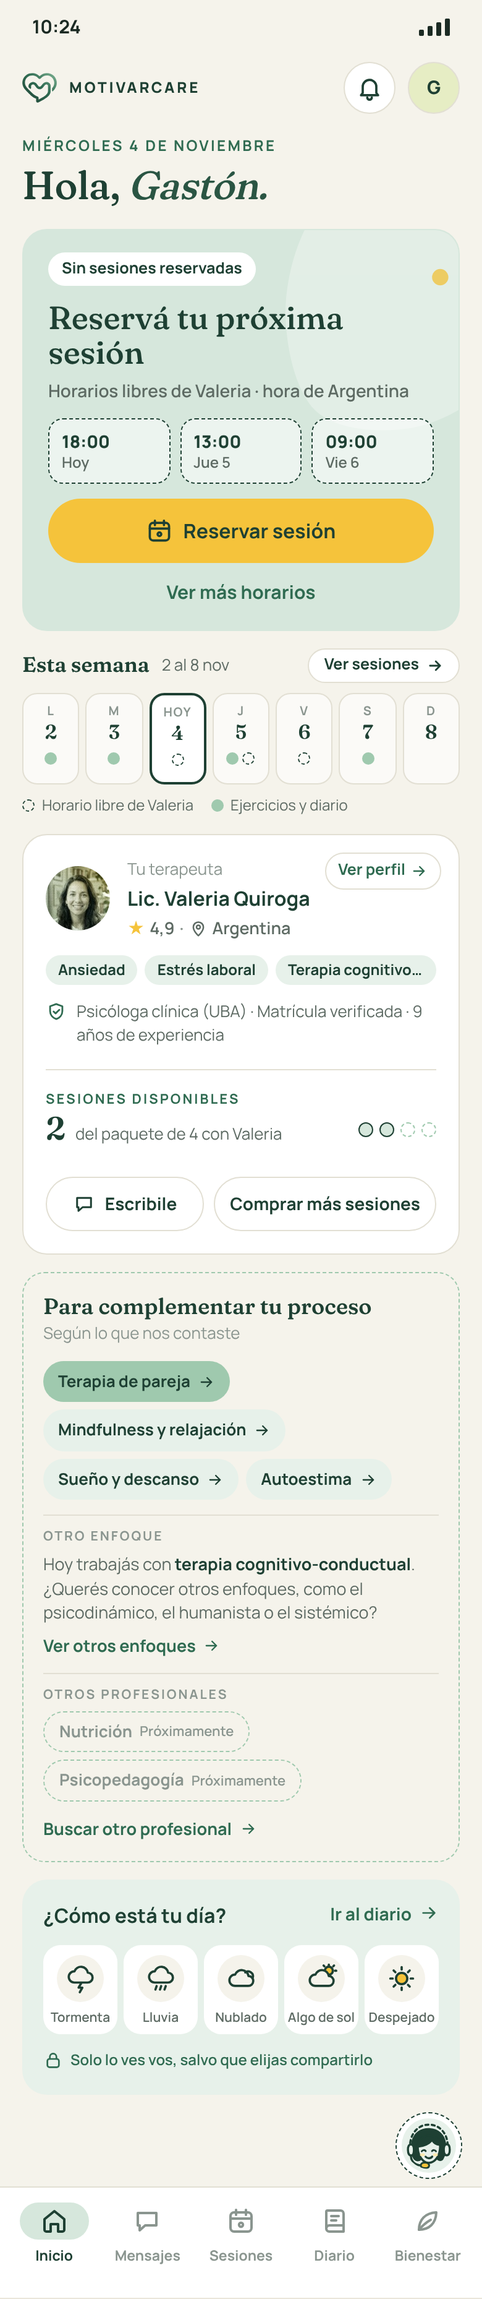
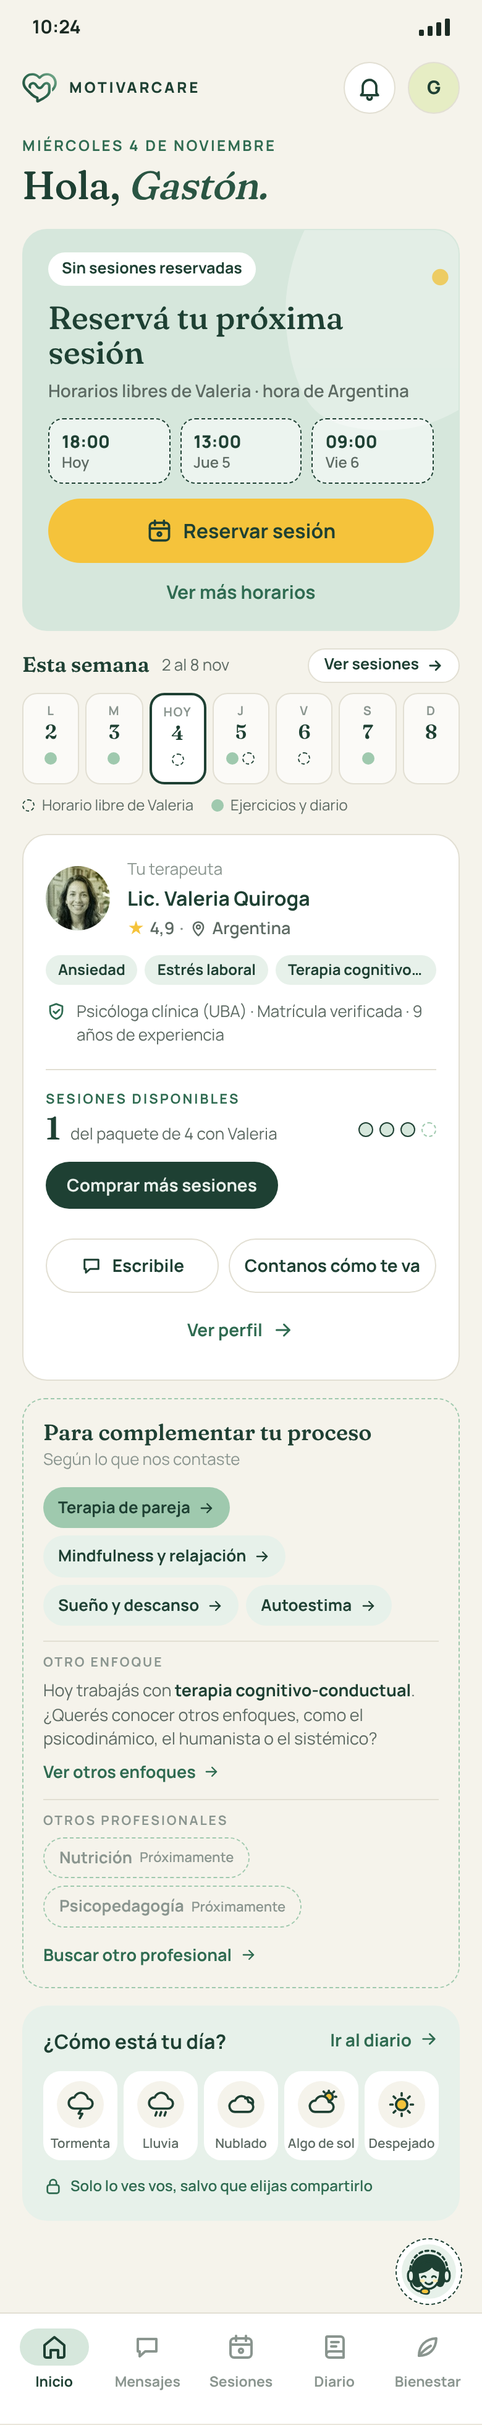
App del usuario: Ficha del profesional con comprar, contar y ver perfil
"Comprar más sesiones" pasa al apartado de sesiones disponibles y solo
aparece desde la mitad del paquete (en verde bosque si queda 1 o
ninguna). "Ver perfil" vuelve abajo y se suma "Contanos cómo te va",
para pedir feedback y calificar al profesional. El mockup 2 pasa a 1
sesión disponible para mostrar el estado destacado.

Claude-Session: https://claude.ai/code/session_01WU1DRuLLvKJwMVuiPWLics

diff --git a/web/public/app-usuario/ronda-2.html b/web/public/app-usuario/ronda-2.html
@@ -823,6 +823,14 @@ ul.lista-simple { padding: 0; }
 .rubros { display: flex; flex-wrap: wrap; gap: 6px; }
 .rubro-pill { display: inline-flex; align-items: center; gap: 6px; padding: 6px 12px; border-radius: 99px; border: 1.5px dashed var(--salvia-fuerte); font-size: 13px; font-weight: 700; color: var(--tinta-tenue); }
 .rubro-pill small { font-size: 11px; font-weight: 600; color: var(--tinta-tenue); }
+
+/* Ficha del profesional: comprar en el apartado de sesiones; tres acciones abajo */
+.disponibles { position: relative; }
+.disponibles .comprar-mas { align-self: flex-start; height: 38px; padding: 0 16px; font-size: 14px; margin-top: 8px; }
+.pro2 .botones { flex-wrap: wrap; gap: 8px 8px; }
+.pro2 .botones .boton.texto { padding: 0 6px; }
+.pro2-cab { padding-right: 0; }
+.ver-abajo { align-self: flex-start; padding: 0 !important; height: 32px; }
 </style>
 </head>
 <body>
@@ -924,7 +932,7 @@ ul.lista-simple { padding: 0; }
         </div>
         <div class="columna-der">
         <article class="tarjeta pro2">
-          <div class="pro2-cab"><a class="ver-perfil">Ver perfil<svg class="ico"><use href="#i-flecha"/></svg></a>
+          <div class="pro2-cab">
             <img class="avatar" src="../landing/img/profesionales/valeria-quiroga.jpg" alt="" width="64" height="64">
             <div>
               <span class="tenue">Tu terapeuta</span>
@@ -935,8 +943,8 @@ ul.lista-simple { padding: 0; }
           <div class="pills"><span class="chip">Ansiedad</span><span class="chip">Estrés laboral</span><span class="chip">Terapia cognitivo-conductual</span><span class="chip">Autoestima</span><span class="chip">Vínculos</span></div>
           <p class="credenciales"><svg class="ico"><use href="#i-escudo"/></svg>Psicóloga clínica (UBA) · Matrícula verificada · 9 años de experiencia</p>
           <div class="nota"><i>i</i><span>Te escribió ayer: <b style="color:var(--tinta)">“Te dejo el ejercicio que vimos para esta semana.”</b></span></div>
-          <div class="disponibles"><span class="et">Sesiones disponibles</span><div class="fila-disp"><b>2</b><span>del paquete de 4 con Valeria</span><span class="puntos4"><i class="u"></i><i class="u"></i><i></i><i></i></span></div></div>
-          <div class="botones"><a class="boton contorno"><svg class="ico chico"><use href="#i-chat"/></svg>Escribile</a><a class="boton contorno">Comprar más sesiones</a></div>
+          <div class="disponibles"><span class="et">Sesiones disponibles</span><div class="fila-disp"><b>2</b><span>del paquete de 4 con Valeria</span><span class="puntos4"><i class="u"></i><i class="u"></i><i></i><i></i></span></div><a class="boton contorno comprar-mas">Comprar más sesiones</a></div>
+          <div class="botones"><a class="boton contorno"><svg class="ico chico"><use href="#i-chat"/></svg>Escribile</a><a class="boton contorno">Contanos cómo te va</a><a class="boton texto">Ver perfil<svg class="ico chico"><use href="#i-flecha"/></svg></a></div>
         </article>
           <div class="complementar">
             <div class="comp-cab"><b>Para complementar tu proceso</b><span class="tenue">Según lo que nos contaste</span></div>
@@ -992,7 +1000,7 @@ ul.lista-simple { padding: 0; }
     </article>
     <div class="cal-tel"><div class="eq-cal-cab"><h2 class="eq-titulo">Esta semana</h2><span class="rango">2 al 8 nov</span><a class="eq-expandir" href="#sesiones">Ver sesiones<svg class="ico" style="width:14px;height:14px"><use href="#i-flecha"/></svg></a></div><div class="sem-tel"><div class="dt"><span class="d">L</span><span class="n">2</span><span class="m p"></span></div><div class="dt"><span class="d">M</span><span class="n">3</span><span class="m p"></span></div><div class="dt hoy"><span class="d">Hoy</span><span class="n">4</span><img class="m" src="../landing/img/profesionales/valeria-quiroga.jpg" alt=""></div><div class="dt"><span class="d">J</span><span class="n">5</span><span class="m p"></span></div><div class="dt"><span class="d">V</span><span class="n">6</span></div><div class="dt"><span class="d">S</span><span class="n">7</span><span class="m p"></span></div><div class="dt"><span class="d">D</span><span class="n">8</span></div></div><div class="ley-tel"><span><img src="../landing/img/profesionales/valeria-quiroga.jpg" alt="">Sesión con Valeria</span><span><i class="p"></i>Ejercicios y diario</span></div></div>
     <article class="tarjeta pro2 tel-pro">
-      <div class="pro2-cab"><a class="ver-perfil">Ver perfil<svg class="ico"><use href="#i-flecha"/></svg></a>
+      <div class="pro2-cab">
         <img class="avatar" src="../landing/img/profesionales/valeria-quiroga.jpg" alt="" width="52" height="52">
         <div>
           <span class="tenue">Tu terapeuta</span>
@@ -1003,8 +1011,8 @@ ul.lista-simple { padding: 0; }
       <div class="pills"><span class="chip">Ansiedad</span><span class="chip">Estrés laboral</span><span class="chip">Terapia cognitivo-conductual</span><span class="chip">Autoestima</span><span class="chip">Vínculos</span></div>
       <p class="credenciales"><svg class="ico"><use href="#i-escudo"/></svg>Psicóloga clínica (UBA) · Matrícula verificada · 9 años de experiencia</p>
           <div class="nota"><i>i</i><span>Te escribió ayer: <b style="color:var(--tinta)">“Te dejo el ejercicio que vimos para esta semana.”</b></span></div>
-      <div class="disponibles"><span class="et">Sesiones disponibles</span><div class="fila-disp"><b>2</b><span>del paquete de 4 con Valeria</span><span class="puntos4"><i class="u"></i><i class="u"></i><i></i><i></i></span></div></div>
-      <div class="botones"><a class="boton contorno"><svg class="ico chico"><use href="#i-chat"/></svg>Escribile</a><a class="boton contorno">Comprar más sesiones</a></div>
+      <div class="disponibles"><span class="et">Sesiones disponibles</span><div class="fila-disp"><b>2</b><span>del paquete de 4 con Valeria</span><span class="puntos4"><i class="u"></i><i class="u"></i><i></i><i></i></span></div><a class="boton contorno comprar-mas">Comprar más sesiones</a></div>
+      <div class="botones"><a class="boton contorno"><svg class="ico chico"><use href="#i-chat"/></svg>Escribile</a><a class="boton contorno">Contanos cómo te va</a><a class="boton texto">Ver perfil<svg class="ico chico"><use href="#i-flecha"/></svg></a></div>
     </article>
     <div class="complementar tel-comp">
             <div class="comp-cab"><b>Para complementar tu proceso</b><span class="tenue">Según lo que nos contaste</span></div>
@@ -1071,7 +1079,7 @@ ul.lista-simple { padding: 0; }
       <div class="saludo">
         <span class="t-fecha">Miércoles 4 de noviembre</span>
         <h1 class="t1">Hola, <em>Gastón.</em></h1>
-        <p class="bajada">Tenés 2 sesiones disponibles con Valeria. Reservá la próxima cuando quieras.</p>
+        <p class="bajada">Te queda 1 sesión disponible con Valeria. Reservá la próxima cuando quieras.</p>
       </div>
       <div class="grilla-inicio">
         <div class="columna-izq">
@@ -1088,7 +1096,7 @@ ul.lista-simple { padding: 0; }
           </div>
           <div class="acciones">
             <a class="boton primario grande"><svg class="ico"><use href="#i-sesiones"/></svg>Reservar sesión</a>
-            <span class="peq" style="color:var(--bosque)">Usás 1 de tus 2 sesiones disponibles con Valeria</span>
+            <span class="peq" style="color:var(--bosque)">Usás tu última sesión disponible con Valeria</span>
           </div>
         </article>
           <div class="eq-cal"><div class="eq-cal-cab"><h2 class="eq-titulo"><span class="solo-semana">Esta semana</span><span class="solo-mes">Noviembre 2026</span></h2><span class="rango solo-semana">2 al 8 de noviembre</span><span class="flechas"><span>‹</span><span>›</span></span><a class="eq-expandir" href="#sesiones" title="Lleva a la página de Sesiones">Ver sesiones<svg class="ico" style="width:14px;height:14px"><use href="#i-flecha"/></svg></a></div><div class="eq-semana"><div class="eq-dia"><span class="d">Lun</span><span class="n">2</span><span class="eq-ev otro">Respiración ✓</span></div><div class="eq-dia"><span class="d">Mar</span><span class="n">3</span><span class="eq-ev otro">Diario ✓</span></div><div class="eq-dia hoy"><span class="d">Hoy</span><span class="n">4</span><span class="eq-ev libre">Libre 18:00</span></div><div class="eq-dia"><span class="d">Jue</span><span class="n">5</span><span class="eq-ev otro">Ejercicio</span><span class="eq-ev libre">2 libres</span></div><div class="eq-dia"><span class="d">Vie</span><span class="n">6</span><span class="eq-ev libre">Libre 09:00</span></div><div class="eq-dia"><span class="d">Sáb</span><span class="n">7</span><span class="eq-ev otro">Respiración</span></div><div class="eq-dia"><span class="d">Dom</span><span class="n">8</span></div></div></div>
@@ -1110,7 +1118,7 @@ ul.lista-simple { padding: 0; }
         </div>
         <div class="columna-der">
         <article class="tarjeta pro2">
-          <div class="pro2-cab"><a class="ver-perfil">Ver perfil<svg class="ico"><use href="#i-flecha"/></svg></a>
+          <div class="pro2-cab">
             <img class="avatar" src="../landing/img/profesionales/valeria-quiroga.jpg" alt="" width="64" height="64">
             <div>
               <span class="tenue">Tu terapeuta</span>
@@ -1120,8 +1128,8 @@ ul.lista-simple { padding: 0; }
           </div>
           <div class="pills"><span class="chip">Ansiedad</span><span class="chip">Estrés laboral</span><span class="chip">Terapia cognitivo-conductual</span><span class="chip">Autoestima</span><span class="chip">Vínculos</span></div>
           <p class="credenciales"><svg class="ico"><use href="#i-escudo"/></svg>Psicóloga clínica (UBA) · Matrícula verificada · 9 años de experiencia</p>
-          <div class="disponibles"><span class="et">Sesiones disponibles</span><div class="fila-disp"><b>2</b><span>del paquete de 4 con Valeria</span><span class="puntos4"><i class="u"></i><i class="u"></i><i></i><i></i></span></div></div>
-          <div class="botones"><a class="boton contorno"><svg class="ico chico"><use href="#i-chat"/></svg>Escribile</a><a class="boton contorno">Comprar más sesiones</a></div>
+          <div class="disponibles"><span class="et">Sesiones disponibles</span><div class="fila-disp"><b>1</b><span>del paquete de 4 con Valeria</span><span class="puntos4"><i class="u"></i><i class="u"></i><i class="u"></i><i></i></span></div><a class="boton bosque comprar-mas">Comprar más sesiones</a></div>
+          <div class="botones"><a class="boton contorno"><svg class="ico chico"><use href="#i-chat"/></svg>Escribile</a><a class="boton contorno">Contanos cómo te va</a><a class="boton texto">Ver perfil<svg class="ico chico"><use href="#i-flecha"/></svg></a></div>
         </article>
           <div class="complementar">
             <div class="comp-cab"><b>Para complementar tu proceso</b><span class="tenue">Según lo que nos contaste</span></div>
@@ -1182,7 +1190,7 @@ ul.lista-simple { padding: 0; }
     </article>
     <div class="cal-tel"><div class="eq-cal-cab"><h2 class="eq-titulo">Esta semana</h2><span class="rango">2 al 8 nov</span><a class="eq-expandir" href="#sesiones">Ver sesiones<svg class="ico" style="width:14px;height:14px"><use href="#i-flecha"/></svg></a></div><div class="sem-tel"><div class="dt"><span class="d">L</span><span class="n">2</span><span class="marcas"><span class="m p"></span></span></div><div class="dt"><span class="d">M</span><span class="n">3</span><span class="marcas"><span class="m p"></span></span></div><div class="dt hoy"><span class="d">Hoy</span><span class="n">4</span><span class="marcas"><span class="m l"></span></span></div><div class="dt"><span class="d">J</span><span class="n">5</span><span class="marcas"><span class="m p"></span><span class="m l"></span></span></div><div class="dt"><span class="d">V</span><span class="n">6</span><span class="marcas"><span class="m l"></span></span></div><div class="dt"><span class="d">S</span><span class="n">7</span><span class="marcas"><span class="m p"></span></span></div><div class="dt"><span class="d">D</span><span class="n">8</span><span class="marcas"></span></div></div><div class="ley-tel"><span><i class="l"></i>Horario libre de Valeria</span><span><i class="p"></i>Ejercicios y diario</span></div></div>
     <article class="tarjeta pro2 tel-pro">
-      <div class="pro2-cab"><a class="ver-perfil">Ver perfil<svg class="ico"><use href="#i-flecha"/></svg></a>
+      <div class="pro2-cab">
         <img class="avatar" src="../landing/img/profesionales/valeria-quiroga.jpg" alt="" width="52" height="52">
         <div>
           <span class="tenue">Tu terapeuta</span>
@@ -1192,8 +1200,8 @@ ul.lista-simple { padding: 0; }
       </div>
       <div class="pills"><span class="chip">Ansiedad</span><span class="chip">Estrés laboral</span><span class="chip">Terapia cognitivo-conductual</span><span class="chip">Autoestima</span><span class="chip">Vínculos</span></div>
       <p class="credenciales"><svg class="ico"><use href="#i-escudo"/></svg>Psicóloga clínica (UBA) · Matrícula verificada · 9 años de experiencia</p>
-      <div class="disponibles"><span class="et">Sesiones disponibles</span><div class="fila-disp"><b>2</b><span>del paquete de 4 con Valeria</span><span class="puntos4"><i class="u"></i><i class="u"></i><i></i><i></i></span></div></div>
-      <div class="botones"><a class="boton contorno"><svg class="ico chico"><use href="#i-chat"/></svg>Escribile</a><a class="boton contorno">Comprar más sesiones</a></div>
+      <div class="disponibles"><span class="et">Sesiones disponibles</span><div class="fila-disp"><b>1</b><span>del paquete de 4 con Valeria</span><span class="puntos4"><i class="u"></i><i class="u"></i><i class="u"></i><i></i></span></div><a class="boton bosque comprar-mas">Comprar más sesiones</a></div>
+      <div class="botones"><a class="boton contorno"><svg class="ico chico"><use href="#i-chat"/></svg>Escribile</a><a class="boton contorno">Contanos cómo te va</a><a class="boton texto">Ver perfil<svg class="ico chico"><use href="#i-flecha"/></svg></a></div>
     </article>
     <div class="complementar tel-comp">
             <div class="comp-cab"><b>Para complementar tu proceso</b><span class="tenue">Según lo que nos contaste</span></div>
@@ -1478,7 +1486,7 @@ ul.lista-simple { padding: 0; }
               <span class="tab-pro"><img src="../landing/img/profesionales/tomas-benitez.jpg" alt=""><span>Tomás</span><span class="aviso msj" title="1 mensaje sin leer"><svg class="ico"><use href="#i-chat"/></svg>1</span></span>
             </div>
           </div>
-          <div class="pro2-cab"><a class="ver-perfil">Ver perfil<svg class="ico"><use href="#i-flecha"/></svg></a>
+          <div class="pro2-cab">
             <img class="avatar" src="../landing/img/profesionales/valeria-quiroga.jpg" alt="" width="64" height="64">
             <div>
               <span class="tenue">Tu terapeuta</span>
@@ -1489,8 +1497,8 @@ ul.lista-simple { padding: 0; }
           <div class="pills"><span class="chip">Ansiedad</span><span class="chip">Estrés laboral</span><span class="chip">Terapia cognitivo-conductual</span><span class="chip">Autoestima</span><span class="chip">Vínculos</span></div>
           <p class="credenciales"><svg class="ico"><use href="#i-escudo"/></svg>Psicóloga clínica (UBA) · Matrícula verificada · 9 años de experiencia</p>
           <div class="nota"><i>i</i><span>Te escribió ayer: <b style="color:var(--tinta)">“Te dejo el ejercicio que vimos para esta semana.”</b></span></div>
-          <div class="disponibles"><span class="et">Sesiones disponibles</span><div class="fila-disp"><b>2</b><span>del paquete de 4 con Valeria</span><span class="puntos4"><i class="u"></i><i class="u"></i><i></i><i></i></span></div></div>
-          <div class="botones"><a class="boton contorno"><svg class="ico chico"><use href="#i-chat"/></svg>Escribile</a><a class="boton contorno">Comprar más sesiones</a></div>
+          <div class="disponibles"><span class="et">Sesiones disponibles</span><div class="fila-disp"><b>2</b><span>del paquete de 4 con Valeria</span><span class="puntos4"><i class="u"></i><i class="u"></i><i></i><i></i></span></div><a class="boton contorno comprar-mas">Comprar más sesiones</a></div>
+          <div class="botones"><a class="boton contorno"><svg class="ico chico"><use href="#i-chat"/></svg>Escribile</a><a class="boton contorno">Contanos cómo te va</a><a class="boton texto">Ver perfil<svg class="ico chico"><use href="#i-flecha"/></svg></a></div>
         </article>
           <div class="complementar">
             <div class="comp-cab"><b>Para complementar tu proceso</b><span class="tenue">Según lo que nos contaste</span></div>
@@ -1554,7 +1562,7 @@ ul.lista-simple { padding: 0; }
               <span class="tab-pro"><img src="../landing/img/profesionales/tomas-benitez.jpg" alt=""><span>Tomás</span><span class="aviso msj" title="1 mensaje sin leer"><svg class="ico"><use href="#i-chat"/></svg>1</span></span>
             </div>
           </div>
-      <div class="pro2-cab"><a class="ver-perfil">Ver perfil<svg class="ico"><use href="#i-flecha"/></svg></a>
+      <div class="pro2-cab">
         <img class="avatar" src="../landing/img/profesionales/valeria-quiroga.jpg" alt="" width="52" height="52">
         <div>
           <span class="tenue">Tu terapeuta</span>
@@ -1565,8 +1573,8 @@ ul.lista-simple { padding: 0; }
       <div class="pills"><span class="chip">Ansiedad</span><span class="chip">Estrés laboral</span><span class="chip">Terapia cognitivo-conductual</span><span class="chip">Autoestima</span><span class="chip">Vínculos</span></div>
       <p class="credenciales"><svg class="ico"><use href="#i-escudo"/></svg>Psicóloga clínica (UBA) · Matrícula verificada · 9 años de experiencia</p>
           <div class="nota"><i>i</i><span>Te escribió ayer: <b style="color:var(--tinta)">“Te dejo el ejercicio que vimos para esta semana.”</b></span></div>
-      <div class="disponibles"><span class="et">Sesiones disponibles</span><div class="fila-disp"><b>2</b><span>del paquete de 4 con Valeria</span><span class="puntos4"><i class="u"></i><i class="u"></i><i></i><i></i></span></div></div>
-      <div class="botones"><a class="boton contorno"><svg class="ico chico"><use href="#i-chat"/></svg>Escribile</a><a class="boton contorno">Comprar más sesiones</a></div>
+      <div class="disponibles"><span class="et">Sesiones disponibles</span><div class="fila-disp"><b>2</b><span>del paquete de 4 con Valeria</span><span class="puntos4"><i class="u"></i><i class="u"></i><i></i><i></i></span></div><a class="boton contorno comprar-mas">Comprar más sesiones</a></div>
+      <div class="botones"><a class="boton contorno"><svg class="ico chico"><use href="#i-chat"/></svg>Escribile</a><a class="boton contorno">Contanos cómo te va</a><a class="boton texto">Ver perfil<svg class="ico chico"><use href="#i-flecha"/></svg></a></div>
     </article>
     <div class="complementar tel-comp">
             <div class="comp-cab"><b>Para complementar tu proceso</b><span class="tenue">Según lo que nos contaste</span></div>
@@ -2100,7 +2108,7 @@ ul.lista-simple { padding: 0; }
         </div>
         <div class="columna-der">
           <article class="tarjeta pro2">
-          <div class="pro2-cab"><a class="ver-perfil">Ver perfil<svg class="ico"><use href="#i-flecha"/></svg></a>
+          <div class="pro2-cab">
             <img class="avatar" src="../landing/img/profesionales/valeria-quiroga.jpg" alt="" width="64" height="64">
             <div>
               <span class="tenue">Tu terapeuta</span>
@@ -2111,7 +2119,7 @@ ul.lista-simple { padding: 0; }
           <div class="pills"><span class="chip">Ansiedad</span><span class="chip">Estrés laboral</span><span class="chip">Terapia cognitivo-conductual</span><span class="chip">Autoestima</span><span class="chip">Vínculos</span></div>
           <p class="credenciales"><svg class="ico"><use href="#i-escudo"/></svg>Psicóloga clínica (UBA) · Matrícula verificada · 9 años de experiencia</p>
           
-        <div class="aclaraciones"><div class="item"><svg class="ico chico"><use href="#i-video"/></svg><span>Videollamada de 50 min. El enlace te llega por mail y queda en Sesiones.</span></div><div class="item"><svg class="ico chico"><use href="#i-reloj"/></svg><span>Podés reprogramar sin costo hasta 24 h antes.</span></div></div>
+        <div class="aclaraciones"><div class="item"><svg class="ico chico"><use href="#i-video"/></svg><span>Videollamada de 50 min. El enlace te llega por mail y queda en Sesiones.</span></div><div class="item"><svg class="ico chico"><use href="#i-reloj"/></svg><span>Podés reprogramar sin costo hasta 24 h antes.</span></div></div><a class="boton texto ver-abajo">Ver perfil<svg class="ico chico"><use href="#i-flecha"/></svg></a>
           </article>
           <div class="tarjeta reservar-box">
             <span class="et-franja" style="width:auto;color:var(--verde-medio)">Tu sesión</span>
@@ -2148,7 +2156,7 @@ ul.lista-simple { padding: 0; }
           <div class="nota ctx-nota"><i>i</i><span>Te recomendamos reservar una sola sesión como <b>encuentro inicial</b>, para conocerse con Valeria. Si se sienten a gusto, después pueden seguir con un paquete.</span></div>
         </article>
     <article class="tarjeta pro2 tel-pro">
-      <div class="pro2-cab"><a class="ver-perfil">Ver perfil<svg class="ico"><use href="#i-flecha"/></svg></a>
+      <div class="pro2-cab">
         <img class="avatar" src="../landing/img/profesionales/valeria-quiroga.jpg" alt="" width="52" height="52">
         <div>
           <span class="tenue">Reservás con</span>
@@ -2158,7 +2166,7 @@ ul.lista-simple { padding: 0; }
       </div>
       <div class="pills"><span class="chip">Ansiedad</span><span class="chip">Estrés laboral</span><span class="chip">Terapia cognitivo-conductual</span><span class="chip">Autoestima</span><span class="chip">Vínculos</span></div>
       
-    <div class="aclaraciones"><div class="item"><svg class="ico chico"><use href="#i-video"/></svg><span>Videollamada de 50 min.</span></div><div class="item"><svg class="ico chico"><use href="#i-reloj"/></svg><span>Podés reprogramar sin costo hasta 24 h antes.</span></div></div>
+    <div class="aclaraciones"><div class="item"><svg class="ico chico"><use href="#i-video"/></svg><span>Videollamada de 50 min.</span></div><div class="item"><svg class="ico chico"><use href="#i-reloj"/></svg><span>Podés reprogramar sin costo hasta 24 h antes.</span></div></div><a class="boton texto ver-abajo">Ver perfil<svg class="ico chico"><use href="#i-flecha"/></svg></a>
     </article>
     <span class="peq" style="color:var(--bosque)">Horarios libres en tu hora (Argentina)</span>
     <div class="lista-dias"><div class="dia-sec"><div class="dia-cab"><b>Hoy, miércoles 4 de noviembre</b><span class="tenue">1 horario</span></div><div class="horarios"><span class="horario">18:00</span></div></div><div class="dia-sec"><div class="dia-cab"><b>Jueves 5 de noviembre</b><span class="tenue">3 horarios</span></div><div class="horarios"><span class="horario">13:00</span><span class="horario elegido">18:30</span><span class="horario">20:00</span></div></div><div class="dia-sec"><div class="dia-cab"><b>Viernes 6 de noviembre</b><span class="tenue">3 horarios</span></div><div class="horarios"><span class="horario">09:00</span><span class="horario">10:00</span><span class="horario">17:00</span></div></div></div>
@@ -2194,7 +2202,7 @@ ul.lista-simple { padding: 0; }
           <div class="ctx-linea cambio"><span class="et-franja" style="width:auto">Estás cambiando</span><b>Viernes 6 de noviembre, 10:00</b></div>
         </article>
     <article class="tarjeta pro2 tel-pro">
-      <div class="pro2-cab"><a class="ver-perfil">Ver perfil<svg class="ico"><use href="#i-flecha"/></svg></a>
+      <div class="pro2-cab">
         <img class="avatar" src="../landing/img/profesionales/valeria-quiroga.jpg" alt="" width="52" height="52">
         <div>
           <span class="tenue">Tu terapeuta</span>
@@ -2204,7 +2212,7 @@ ul.lista-simple { padding: 0; }
       </div>
       <div class="pills"><span class="chip">Ansiedad</span><span class="chip">Estrés laboral</span><span class="chip">Terapia cognitivo-conductual</span><span class="chip">Autoestima</span><span class="chip">Vínculos</span></div>
       
-    <div class="aclaraciones"><div class="item"><svg class="ico chico"><use href="#i-video"/></svg><span>Videollamada de 50 min.</span></div><div class="item"><svg class="ico chico"><use href="#i-reloj"/></svg><span>Podés reprogramar sin costo hasta 24 h antes.</span></div></div>
+    <div class="aclaraciones"><div class="item"><svg class="ico chico"><use href="#i-video"/></svg><span>Videollamada de 50 min.</span></div><div class="item"><svg class="ico chico"><use href="#i-reloj"/></svg><span>Podés reprogramar sin costo hasta 24 h antes.</span></div></div><a class="boton texto ver-abajo">Ver perfil<svg class="ico chico"><use href="#i-flecha"/></svg></a>
     </article>
     <span class="peq" style="color:var(--bosque)">Horarios libres en tu hora (Argentina)</span>
     <div class="lista-dias"><div class="dia-sec"><div class="dia-cab"><b>Hoy, miércoles 4 de noviembre</b><span class="tenue">1 horario</span></div><div class="horarios"><span class="horario">18:00</span></div></div><div class="dia-sec"><div class="dia-cab"><b>Jueves 5 de noviembre</b><span class="tenue">3 horarios</span></div><div class="horarios"><span class="horario">13:00</span><span class="horario elegido">18:30</span><span class="horario">20:00</span></div></div><div class="dia-sec"><div class="dia-cab"><b>Viernes 6 de noviembre</b><span class="tenue">3 horarios</span></div><div class="horarios"><span class="horario">09:00</span><span class="horario actual">10:00<small>La que cambiás</small></span><span class="horario">17:00</span></div></div></div>
@@ -2240,7 +2248,7 @@ ul.lista-simple { padding: 0; }
           <div class="ctx-linea cambio" style="border-top:0;padding-top:0"><span class="et-franja" style="width:auto">Estás cambiando</span><b>Hoy, miércoles 4 de noviembre, 18:00</b></div>
         </article>
     <article class="tarjeta pro2 tel-pro">
-      <div class="pro2-cab"><a class="ver-perfil">Ver perfil<svg class="ico"><use href="#i-flecha"/></svg></a>
+      <div class="pro2-cab">
         <img class="avatar" src="../landing/img/profesionales/valeria-quiroga.jpg" alt="" width="52" height="52">
         <div>
           <span class="tenue">Tu terapeuta</span>
@@ -2250,7 +2258,7 @@ ul.lista-simple { padding: 0; }
       </div>
       <div class="pills"><span class="chip">Ansiedad</span><span class="chip">Estrés laboral</span><span class="chip">Terapia cognitivo-conductual</span><span class="chip">Autoestima</span><span class="chip">Vínculos</span></div>
       
-    <div class="aclaraciones"><div class="item"><svg class="ico chico"><use href="#i-video"/></svg><span>Videollamada de 50 min.</span></div><div class="item"><svg class="ico chico"><use href="#i-reloj"/></svg><span>Podés reprogramar sin costo hasta 24 h antes.</span></div></div>
+    <div class="aclaraciones"><div class="item"><svg class="ico chico"><use href="#i-video"/></svg><span>Videollamada de 50 min.</span></div><div class="item"><svg class="ico chico"><use href="#i-reloj"/></svg><span>Podés reprogramar sin costo hasta 24 h antes.</span></div></div><a class="boton texto ver-abajo">Ver perfil<svg class="ico chico"><use href="#i-flecha"/></svg></a>
     </article>
     <article class="tarjeta aviso-24">
       <span class="icono-aviso"><svg class="ico"><use href="#i-reloj"/></svg></span>

diff --git a/06-app-usuario/historial/ronda-2.md b/06-app-usuario/historial/ronda-2.md
@@ -160,7 +160,7 @@ Toma como base el Inicio B3 de la [Ronda #1](/06-app-usuario/historial/ronda-1/)
 - **Una línea con sus credenciales:** "Psicóloga clínica (UBA) · Matrícula verificada · 9 años de experiencia", con el ícono del escudo.
 - **El último mensaje sin leer**, en una nota sutil (círculo amarillo suave con la "i" y el texto: "Te escribió ayer: …"). **Solo aparece si hay un mensaje sin leer**; si no, la tarjeta pasa directo a las sesiones.
 - **Las sesiones disponibles con ese profesional:** "2 del paquete de 4 con Valeria", con cuatro puntos (sólidos las usadas o reservadas, punteados las disponibles). La próxima sesión ya está en la tarjeta verde y la última, en la agenda de la semana o en Sesiones.
-- **"Escribile"** (abre el chat) y **"Comprar más sesiones"** (siempre con ese profesional), los dos de contorno. **"Ver perfil"** es un botón chico en la esquina superior derecha. Nada compite con la sesión: el amarillo queda reservado para "Entrar a la sesión", el único botón principal de la pantalla.
+- **Acciones:** "Escribile" (abre el chat), "Contanos cómo te va" y "Ver perfil", abajo. "Comprar más sesiones" está en el apartado de sesiones disponibles (ver los ajustes del 13/11). Nada compite con la sesión: el amarillo queda reservado para "Entrar a la sesión", el único botón principal de la pantalla.
 
 Otros cambios respecto del B3:
 
@@ -203,7 +203,7 @@ Otros cambios respecto del B3:
 
 Parte del mockup 1, con todos sus ajustes, y cambia lo que depende de no tener una sesión reservada:
 
-- **Saludo:** "Tenés 2 sesiones disponibles con Valeria. Reservá la próxima cuando quieras."
+- **Saludo:** "Te queda 1 sesión disponible con Valeria. Reservá la próxima cuando quieras."
 - **Tarjeta verde:** la etiqueta "Sin sesiones reservadas" y el título "Reservá tu próxima sesión". Debajo, los próximos horarios libres de Valeria en tu hora (con borde punteado, porque son pendientes) y "Ver más horarios". El botón amarillo es "Reservar sesión", y al lado se aclara que usa una de las sesiones disponibles con Valeria. En el teléfono se ven tres horarios, el botón a todo el ancho y "Ver más horarios" debajo.
 - **Agenda de la semana:** no hay sesiones; los horarios libres de Valeria aparecen punteados en sus días ("Libre 18:00"; si hay más de uno en un día, "2 libres"). En el teléfono, cada horario libre es un círculo punteado, con su leyenda.
 - **Tarjeta del profesional:** igual que en el mockup 1, pero sin mensaje sin leer, para mostrar cómo queda sin ese apartado. Sin mensajes nuevos, "Mensajes" tampoco lleva contador en la navegación.
@@ -296,7 +296,7 @@ Una de las decisiones de esta ronda es trabajar con **pocos componentes, robusto
 | [![Navegación principal](/img/app-usuario/ronda-2/componentes/navegacion.jpg)](/img/app-usuario/ronda-2/componentes/navegacion.jpg) | **Navegación principal** | Llevar a los cinco destinos: Inicio, Mensajes, Sesiones, Diario y Bienestar, con el contador de mensajes sin leer. | Todas las pantallas, salvo la contratación (mockup 7). | Barra lateral (escritorio) y barra inferior (teléfono). |
 | [![Cabecera guía](/img/app-usuario/ronda-2/componentes/cabecera-guia.jpg)](/img/app-usuario/ronda-2/componentes/cabecera-guia.jpg) | **Cabecera guía** | Encabezar el Inicio con una tarjeta verde salvia que dice lo que la persona tiene que hacer ahora, con un único botón amarillo. Responde siempre "¿qué tengo que hacer ahora?". | Inicio con profesional (mockups 1, 2 y 4). | Sesión por empezar ("Entrar a la sesión", "Reprogramar"); sin turnos (próximos horarios libres y "Reservar sesión"). |
 | [![Primeros pasos](/img/app-usuario/ronda-2/componentes/primeros-pasos.jpg)](/img/app-usuario/ronda-2/componentes/primeros-pasos.jpg) | **Primeros pasos** | Guiar al usuario nuevo hacia su primera sesión: una tarjeta verde bosque con los cuatro pasos (el actual en amarillo, los pendientes punteados), "Ver terapeutas" y la aclaración de precios. | Inicio sin profesional (mockup 3). | — |
-| [![Ficha del profesional](/img/app-usuario/ronda-2/componentes/ficha-profesional.jpg)](/img/app-usuario/ronda-2/componentes/ficha-profesional.jpg) | **Ficha del profesional** | Decir siempre con quién se hace, se paga o se reserva: foto, nombre, calificación y país, especialidades, credenciales y acciones. En esta fase todos son terapeutas (en pantalla dice "Tu terapeuta"). | Inicio (mockups 1, 2 y 4), Buscador de profesionales (mockups 5 y 6), contratación (mockup 7) y reserva (mockup 8). | Completa (con el mensaje sin leer, las sesiones disponibles, "Escribile" y "Comprar más sesiones"); con **selector de profesionales** (pastillas con avisos de sesiones y mensajes, el principal primero); resumida (dentro del Resumen de contratación); compacta (teléfono); **resultado de búsqueda** (en el Buscador de profesionales, con las especialidades que coinciden, el precio del encuentro inicial, "Ver perfil y horarios" y "Ver paquetes"). |
+| [![Ficha del profesional](/img/app-usuario/ronda-2/componentes/ficha-profesional.jpg)](/img/app-usuario/ronda-2/componentes/ficha-profesional.jpg) | **Ficha del profesional** | Decir siempre con quién se hace, se paga o se reserva: foto, nombre, calificación y país, especialidades, credenciales y acciones. En esta fase todos son terapeutas (en pantalla dice "Tu terapeuta"). | Inicio (mockups 1, 2 y 4), Buscador de profesionales (mockups 5 y 6), contratación (mockup 7) y reserva (mockup 8). | Completa (con el mensaje sin leer y las sesiones disponibles, con "Comprar más sesiones" cuando ya se usó la mitad del paquete, en verde bosque si queda 1 o ninguna; abajo, "Escribile", "Contanos cómo te va" y "Ver perfil"); con **selector de profesionales** (pastillas con avisos de sesiones y mensajes, el principal primero); resumida (dentro del Resumen de contratación); compacta (teléfono); **resultado de búsqueda** (en el Buscador de profesionales, con las especialidades que coinciden, el precio del encuentro inicial, "Ver perfil y horarios" y "Ver paquetes"). |
 | [![Buscador de profesionales](/img/app-usuario/ronda-2/componentes/buscador-profesionales.jpg)](/img/app-usuario/ronda-2/componentes/buscador-profesionales.jpg) | **Buscador de profesionales** | Encontrar y elegir un profesional: la lista de fichas (resultados de búsqueda), el orden por compatibilidad (con prioridad a una especialidad) o por precio, el filtro "Mostrar" por categoría de profesional y el panel "Lo que nos contaste", con "Cambiar mis respuestas". | Elección de profesional (mockups 5 y 6), desde "Ver terapeutas" (mockup 3) o desde el Cross-selling de profesionales, con los filtros cargados. | Por defecto ("Compatibilidad", según todas tus respuestas) o con una especialidad elegida (el control dice su nombre); escritorio (panel a la derecha) y teléfono (respuestas como pills). |
 | [![Selector de paquetes](/img/app-usuario/ronda-2/componentes/selector-paquetes.jpg)](/img/app-usuario/ronda-2/componentes/selector-paquetes.jpg) | **Selector de paquetes** | Elegir qué contratar con un profesional: el encuentro inicial o un paquete, con su precio, su ahorro y el precio por sesión, y la opción de usar un código de descuento. | Contratación (mockup 7), desde "Ver paquetes" o "Comprar más sesiones". | Primera vez con ese profesional (el encuentro inicial recomendado y elegido por defecto) o ya con sesiones previas (los paquetes primero). |
 | [![Resumen de contratación](/img/app-usuario/ronda-2/componentes/resumen-contratacion.jpg)](/img/app-usuario/ronda-2/componentes/resumen-contratacion.jpg) | **Resumen de contratación** | Responder, junto a la acción, con quién, qué y cuánto: contiene la Ficha del profesional (variante resumida), las aclaraciones del servicio (videollamada de 50 minutos y reprogramación sin costo hasta 24 h antes), el desglose y el total, y el botón amarillo con su aclaración. | Contratación (mockup 7) y reserva (mockup 8). | **Contratación** (desglose, total y "Continuar al pago", con "Es el monto exacto que vas a ver en el pago"); **reserva** ("Tu sesión" con el día y la hora elegidos, y "Reservar sesión", "Reservar y proceder al pago" o "Reprogramar sesión"); columna derecha (escritorio) o barra fija (teléfono). |
@@ -356,3 +356,9 @@ Cada opción lleva a "Elegí a tu profesional" con los filtros ya cargados: la m
 Se prioriza tener **pocos componentes, robustos, reusables y flexibles, con un propósito claro**, en lugar de muchas formas parciales o con variaciones de hacer lo mismo. Se nombran y se listan en el [inventario de componentes](#inventario-de-componentes), que por ahora reúne los principales: **Navegación principal**, **Cabecera guía**, **Primeros pasos**, **Ficha del profesional**, **Buscador de profesionales**, **Selector de paquetes**, **Resumen de contratación** (que contiene la ficha resumida y tiene una variante para la reserva), **Agenda semanal resumida** y **Cross-selling de profesionales** (el widget "Para complementar tu proceso"). Los nombres son internos.
 
 En el **Cross-selling de profesionales**, las especialidades sugeridas (no la modalidad, que siempre va primera) pueden ir variando con el tiempo, para probar cuáles despiertan el interés de cada persona.
+
+### Ficha del profesional: comprar, contar y ver perfil (13/11)
+
+- **"Comprar más sesiones"** pasa al apartado de **sesiones disponibles**, debajo del número. **No aparece hasta que la persona usó al menos la mitad de las sesiones de su paquete.** Si le queda 1 sesión o ninguna, el botón pasa de blanco a **verde bosque**, para darle más relevancia. En los mockups 1 y 4 quedan 2 de 4 (botón blanco); el mockup 2 pasa a tener 1 de 4 (botón verde bosque), y su saludo y su botón amarillo lo dicen ("Te queda 1 sesión disponible con Valeria", "Usás tu última sesión disponible con Valeria").
+- **"Ver perfil"** vuelve abajo, con las demás acciones (también en la reserva, mockup 8).
+- **Nuevo botón: "Contanos cómo te va".** También aparece a partir de la mitad del paquete (o cuando no quedan sesiones), y abre un componente para dar feedback sobre el proceso con el profesional y calificarlo. Ese componente está por diseñar.
